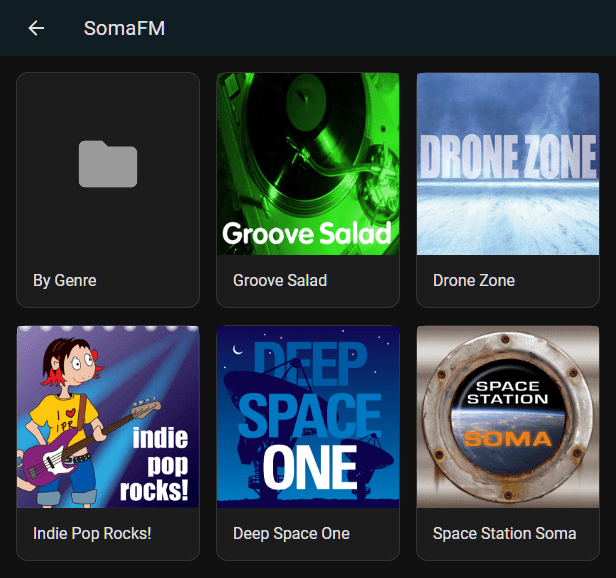
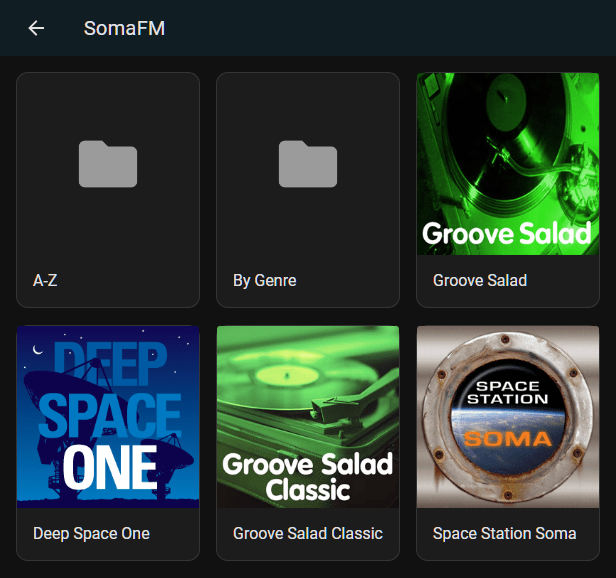
Add A-Z subfolder

diff --git a/media_source.py b/media_source.py
@@ -77,6 +77,7 @@ class SomaFMMediaSource(MediaSource):
             can_expand=True,
             children_media_class=MediaClass.DIRECTORY,
             children=[
+                *await self._async_build_by_name(somafm, item),
                 *await self._async_build_by_genre(somafm, item),
                 *await self._async_build_by_popularity(somafm, item),
             ],
@@ -103,6 +104,28 @@ class SomaFMMediaSource(MediaSource):
             )
 
         return items
+
+    async def _async_build_by_name(
+        self, somafm: SomaFM, item: MediaSourceItem
+    ) -> list[BrowseMediaSource]:
+        """Handle browsing radio stations by name."""
+        if item.identifier == "name":
+            stations = await somafm.stations()
+            stations.sort(key=lambda s: s.title.lower())
+            return self.build_stations(somafm, stations)
+        if not item.identifier:
+            return [
+                BrowseMediaSource(
+                    domain=DOMAIN,
+                    identifier="name",
+                    media_class=MediaClass.DIRECTORY,
+                    media_content_type=MediaType.MUSIC,
+                    title="A-Z",
+                    can_play=False,
+                    can_expand=True,
+                )
+            ]
+        return []
 
     async def _async_build_by_genre(
         self, somafm: SomaFM, item: MediaSourceItem
